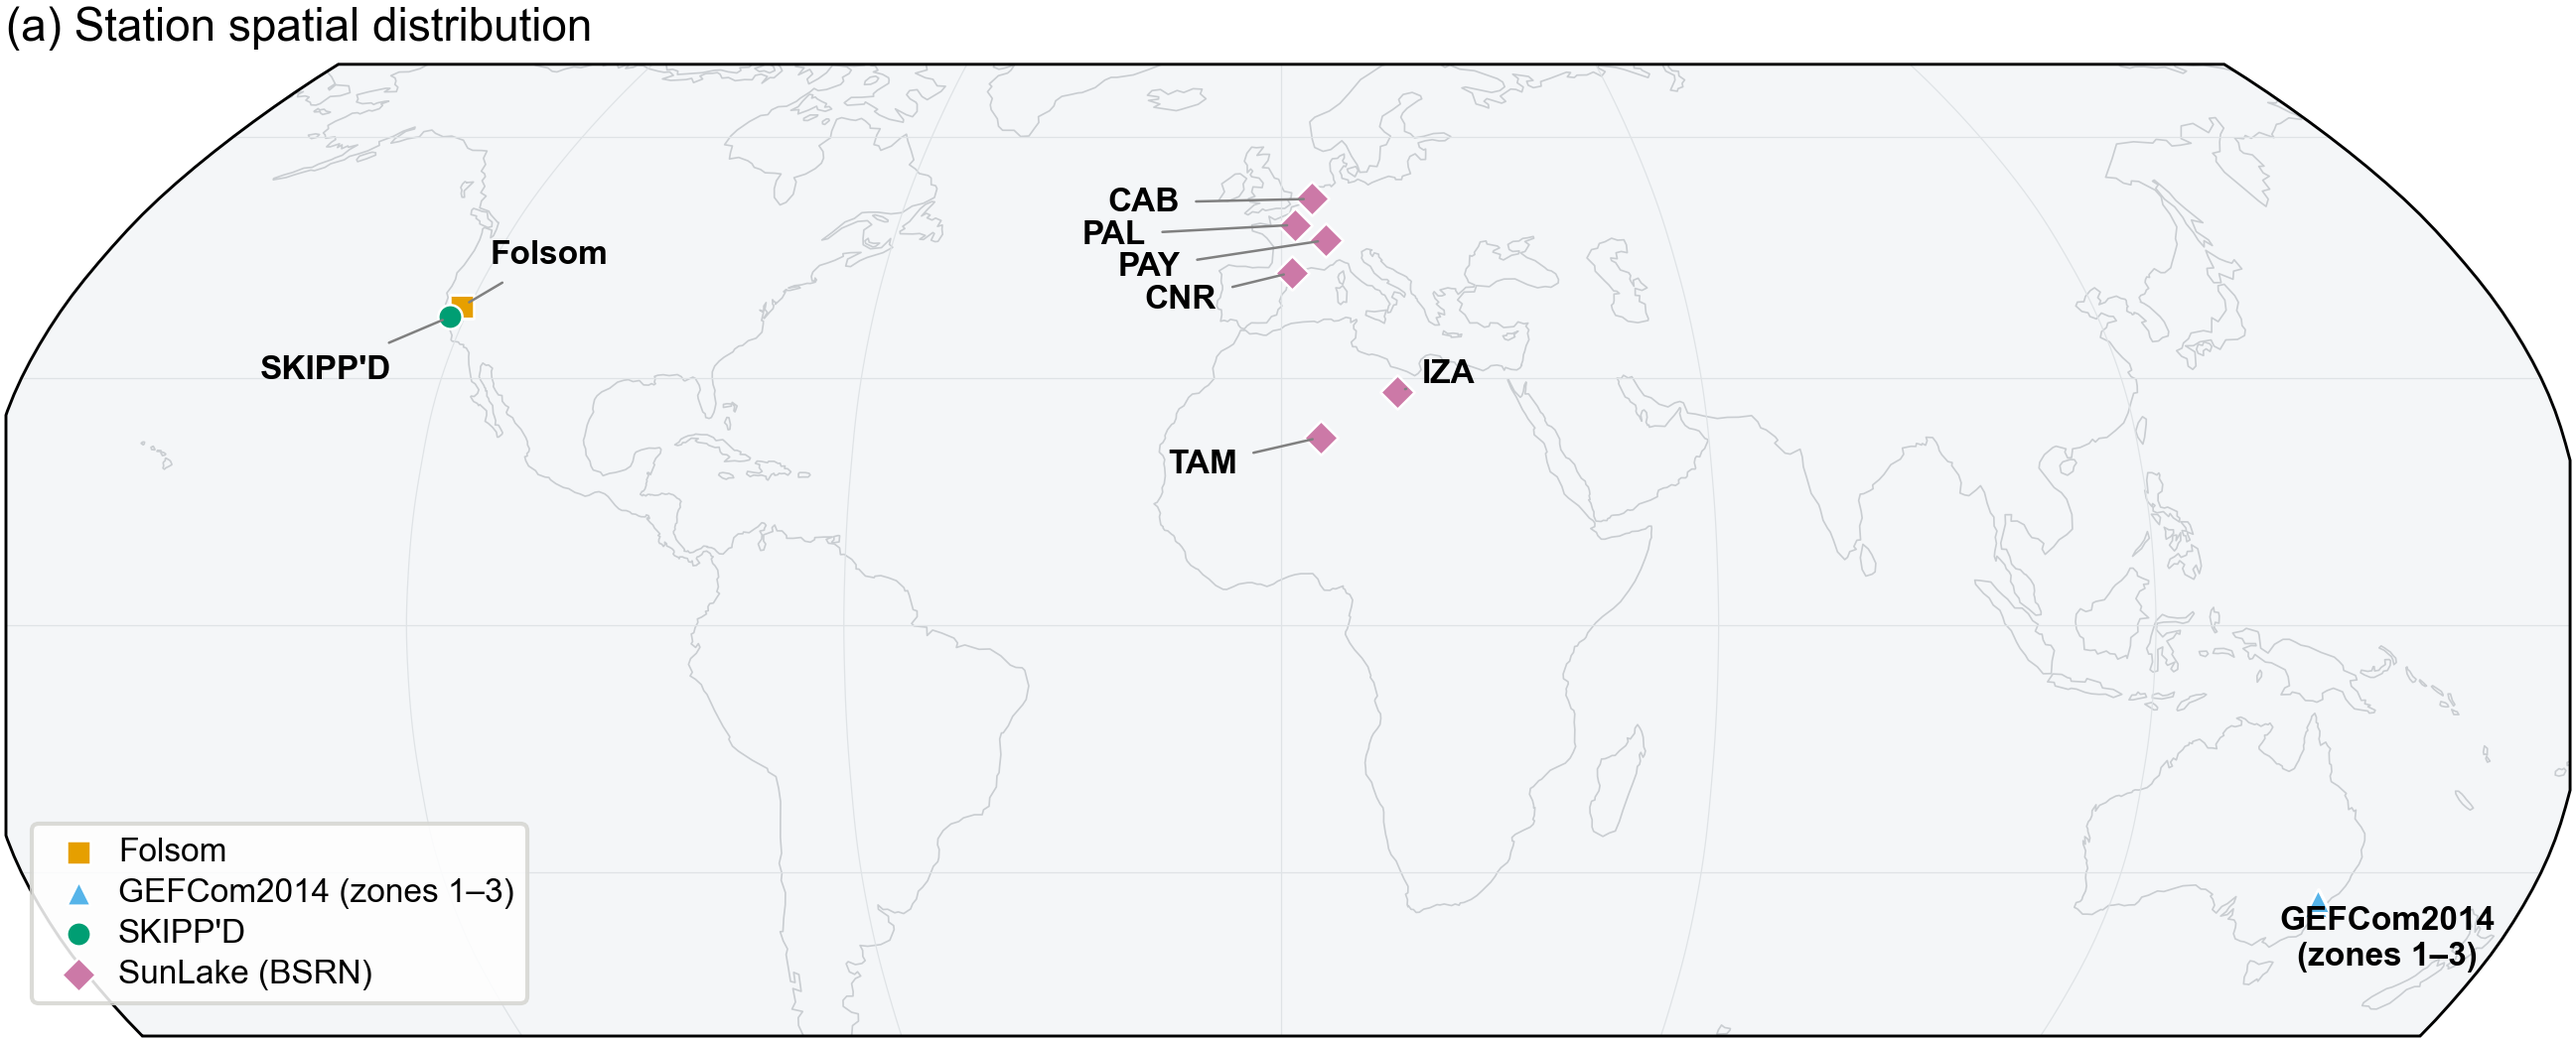
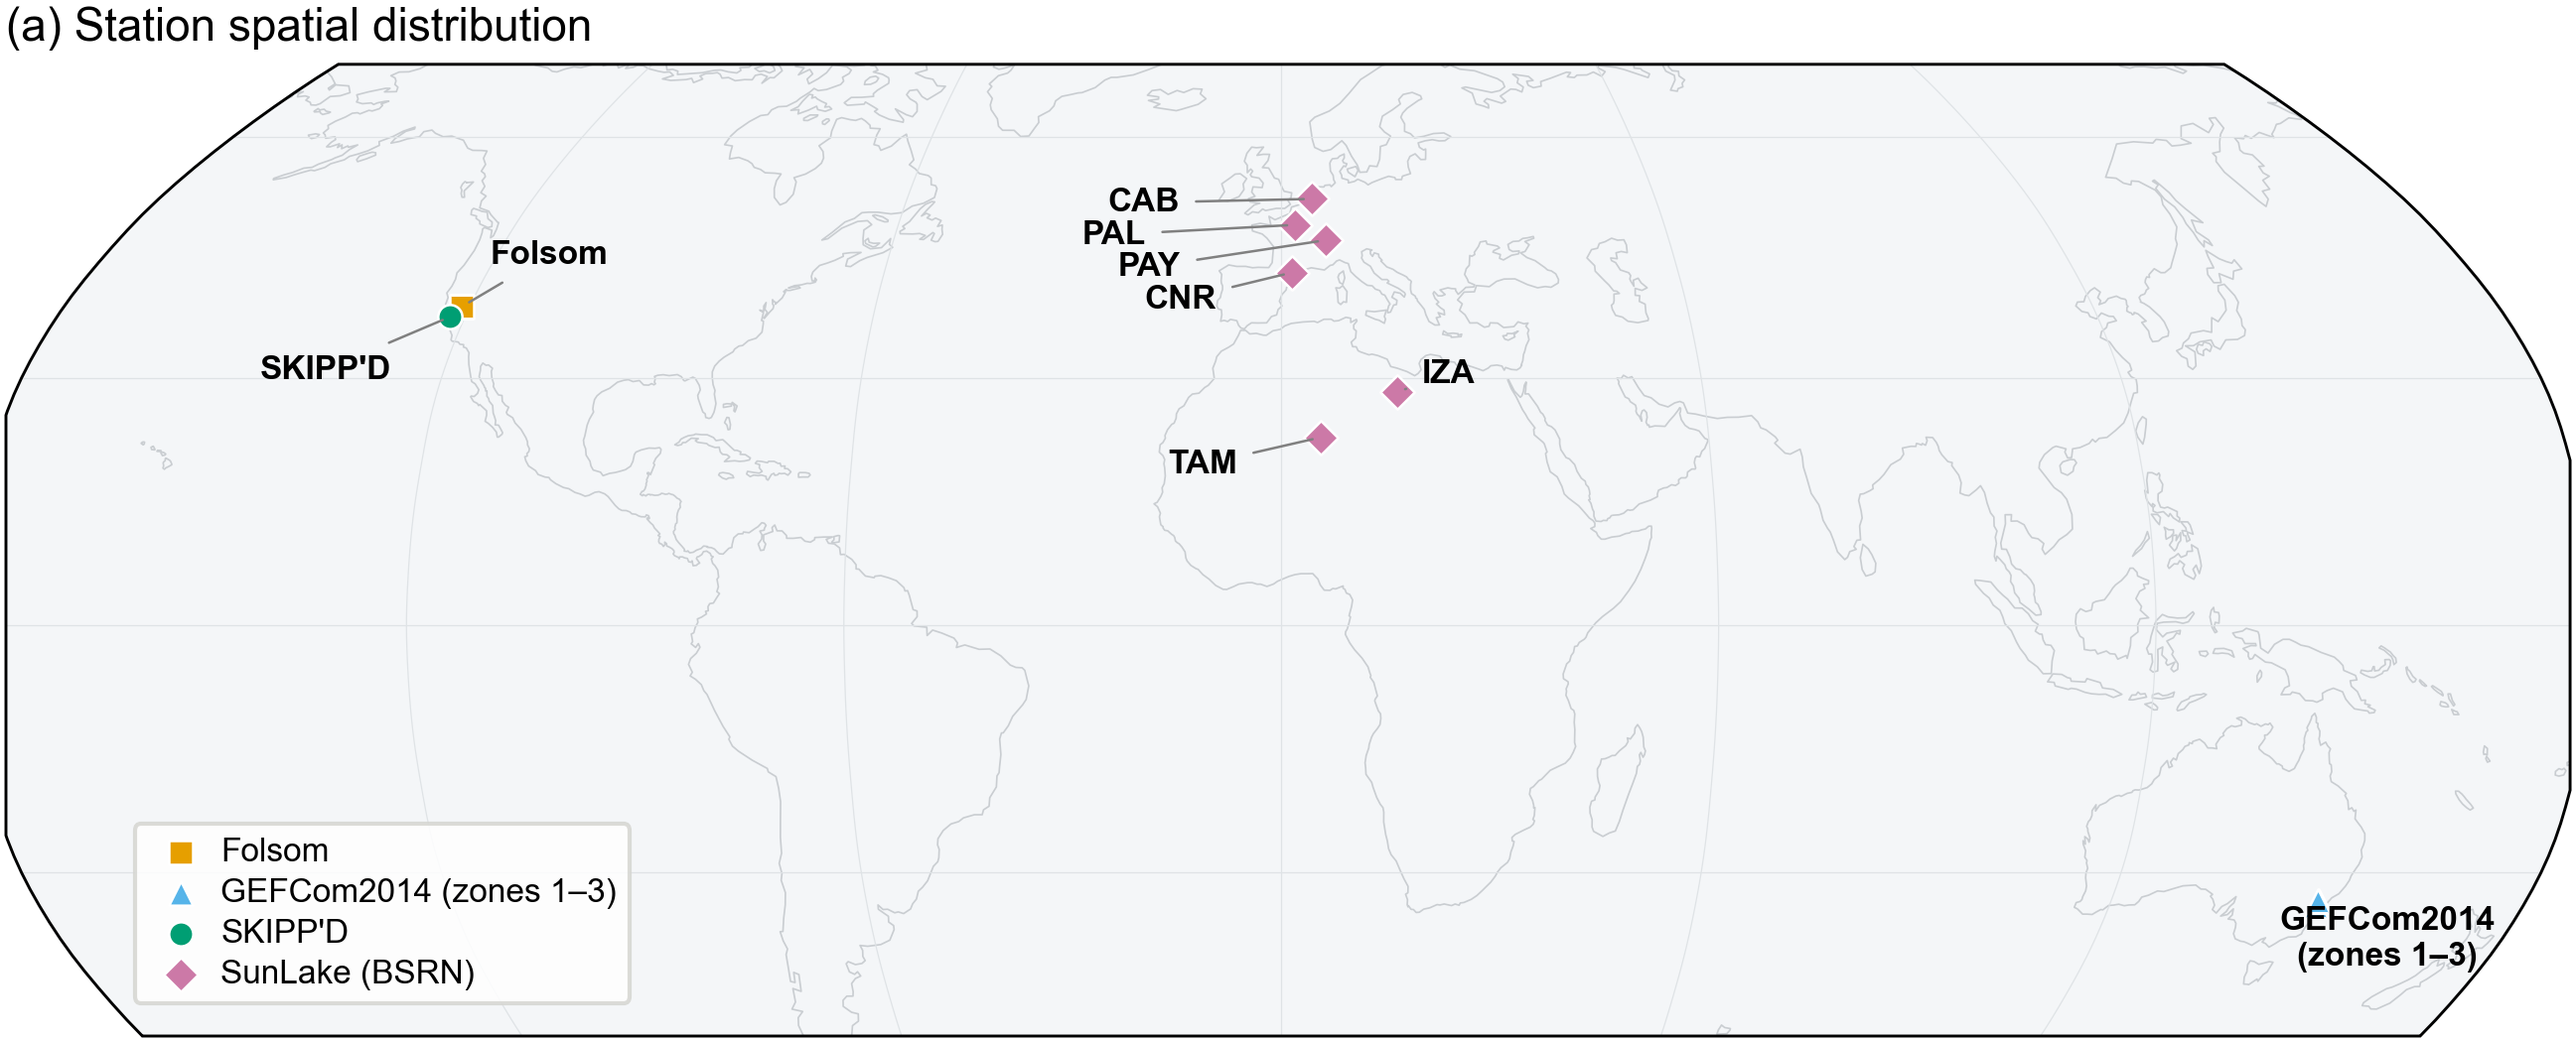
viz(essd): fig01 panel a — legend nudged right (bbox 0.005 -> 0.045), no title

Changed region(s): [[0.0, 0.7924, 0.2498, 0.9752], [0.2186, 0.9448, 0.2498, 0.9752], [0.2186, 0.7619, 0.2498, 0.7924]]

diff --git a/scripts/plot_fig1_showcase.py b/scripts/plot_fig1_showcase.py
@@ -111,7 +111,7 @@ def draw_map(fig, rect) -> None:
                               ("SUNLAKE_IZA", "IZA", 24.0, 30.5),
                               ("SUNLAKE_TAM", "TAM", -11.0, 19.5)):
         ax.annotate(code, xy=_site("sunlake", ent), xytext=(lx, ly), **akw)
-    ax.legend(loc="lower left", bbox_to_anchor=(0.005, 0.02), frameon=True,
+    ax.legend(loc="lower left", bbox_to_anchor=(0.045, 0.02), frameon=True,
               facecolor="white", framealpha=0.85, edgecolor="#D5D5D1",
               handletextpad=0.2, labelspacing=0.3, borderaxespad=0.4,
               fontsize=8)
